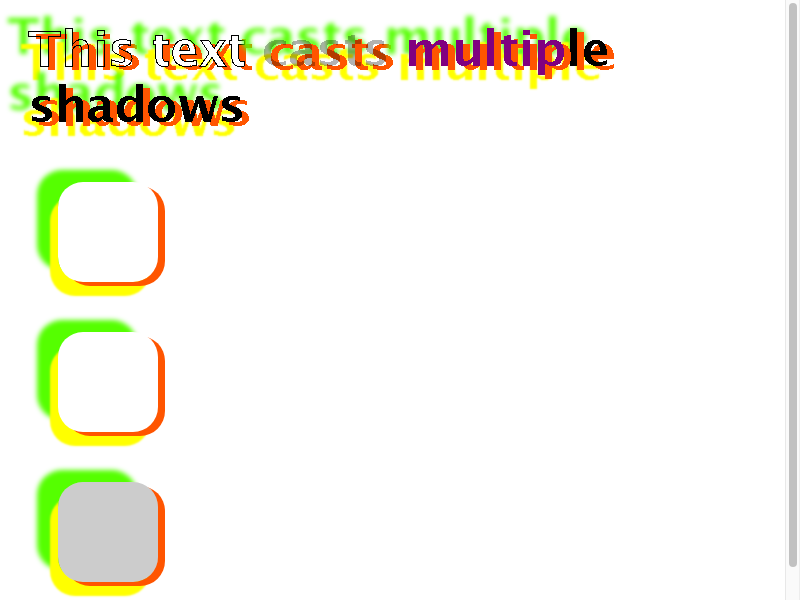
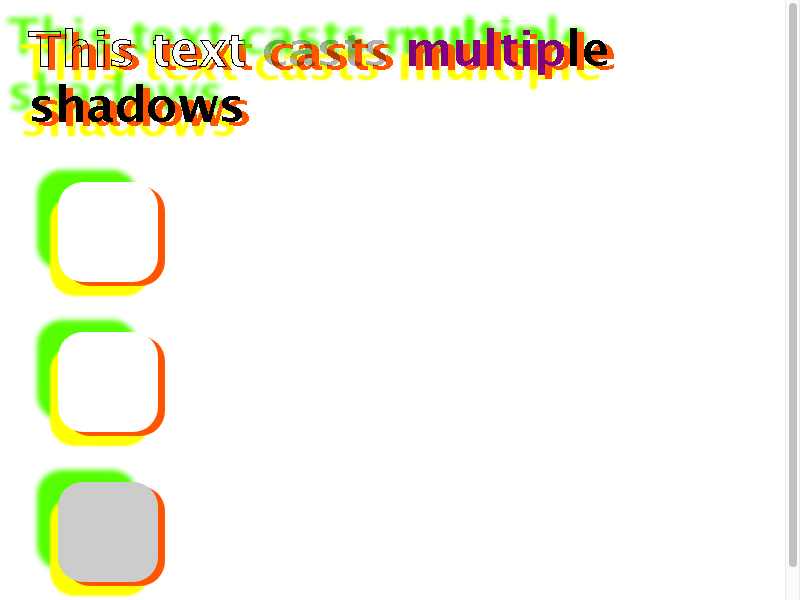
CSS highlight painting order: independent originating element shadows
This patch fixes several bugs around ::selection shadow painting.

We now paint the originating element’s shadows for selected text when
painting the same shadows for the unselected parts, suppressing only
the text proper in the selected part.

We now suppress the originating element’s shadows when painting the
ClipOut phase in NGTextPainter::PaintSelectedText, because this is the
wrong time (and wrong clipping rect) to paint those shadows.

The net result of these first two changes is that originating element
shadows for all text (including selected text) are now painted without
erroneous clipping, and always behind any unselected text proper.

We now clear any ShadowList pointer copied from the given style in
HPU::HighlightPaintingStyle, because the default text-shadow for each
highlight pseudo should be none, not inherited from the originating
element. Previously we would paint originating element shadows over
the ::selection background if HighlightPseudoStyle returns nullptr.

Together these changes should fix bug 474335 entirely, and go a long
way towards spec-compliant highlight painting (bug 1147859). Relevant
tests and screenshots (relative to <https://crrev.com/c/2647046>):

• https://wpt.live/css/css-pseudo/highlight-painting-order.html
• https://bucket.daz.cat/work/igalia/0/6.html?wm=vertical-rl
• https://bucket.daz.cat/8361fa79820580e0.png (right = patch)

Bug: 1147859, 474335
Commit-Queue: Delan Azabani <dazabani@igalia.com>
[…]

Changed region(s): [[0.5, 0.03, 0.6875, 0.12]]

diff --git a/blink/renderer/core/paint/text_painter_base.cc b/blink/renderer/core/paint/text_painter_base.cc
@@ -78,7 +78,8 @@ void TextPainterBase::UpdateGraphicsContext(
     GraphicsContext& context,
     const TextPaintStyle& text_style,
     bool horizontal,
-    GraphicsContextStateSaver& state_saver) {
+    GraphicsContextStateSaver& state_saver,
+    ShadowMode shadow_mode) {
   TextDrawingModeFlags mode = context.TextDrawingMode();
   if (text_style.stroke_width > 0) {
     TextDrawingModeFlags new_mode = mode | kTextModeStroke;
@@ -99,12 +100,49 @@ void TextPainterBase::UpdateGraphicsContext(
       context.SetStrokeThickness(text_style.stroke_width);
   }
 
-  if (text_style.shadow) {
-    state_saver.SaveIfNeeded();
-    context.SetDrawLooper(text_style.shadow->CreateDrawLooper(
-        DrawLooperBuilder::kShadowIgnoresAlpha, text_style.current_color,
-        text_style.color_scheme, horizontal));
+  if (shadow_mode != kTextProperOnly) {
+    DCHECK(shadow_mode == kBothShadowsAndTextProper ||
+           shadow_mode == kShadowsOnly);
+
+    // If there are shadows, we definitely need an SkDrawLooper, but if there
+    // are no shadows (nullptr), we still need one iff we’re in kShadowsOnly
+    // mode, because we suppress text proper by omitting AddUnmodifiedContent
+    // when building a looper (cf. CRC2DState::ShadowAndForegroundDrawLooper).
+    if (text_style.shadow || shadow_mode == kShadowsOnly) {
+      state_saver.SaveIfNeeded();
+      context.SetDrawLooper(CreateDrawLooper(
+          text_style.shadow, DrawLooperBuilder::kShadowIgnoresAlpha,
+          text_style.current_color, text_style.color_scheme, horizontal,
+          shadow_mode));
+    }
   }
+}
+
+// static
+sk_sp<SkDrawLooper> TextPainterBase::CreateDrawLooper(
+    const ShadowList* shadow_list,
+    DrawLooperBuilder::ShadowAlphaMode alpha_mode,
+    const Color& current_color,
+    mojom::blink::ColorScheme color_scheme,
+    bool is_horizontal,
+    ShadowMode shadow_mode) {
+  DrawLooperBuilder draw_looper_builder;
+
+  // ShadowList nullptr means there are no shadows.
+  if (shadow_mode != kTextProperOnly && shadow_list) {
+    for (wtf_size_t i = shadow_list->Shadows().size(); i--;) {
+      const ShadowData& shadow = shadow_list->Shadows()[i];
+      float shadow_x = is_horizontal ? shadow.X() : shadow.Y();
+      float shadow_y = is_horizontal ? shadow.Y() : -shadow.X();
+      draw_looper_builder.AddShadow(
+          FloatSize(shadow_x, shadow_y), shadow.Blur(),
+          shadow.GetColor().Resolve(current_color, color_scheme),
+          DrawLooperBuilder::kShadowRespectsTransforms, alpha_mode);
+    }
+  }
+  if (shadow_mode != kShadowsOnly)
+    draw_looper_builder.AddUnmodifiedContent();
+  return draw_looper_builder.DetachDrawLooper();
 }
 
 Color TextPainterBase::TextColorForWhiteBackground(Color text_color) {

diff --git a/blink/renderer/core/paint/ng/ng_text_fragment_painter.cc b/blink/renderer/core/paint/ng/ng_text_fragment_painter.cc
@@ -359,20 +359,29 @@ class SelectionPaintState {
                                    selection_style_, *selection_rect_, node_id);
   }
 
-  // Paint the text except selected parts. Does nothing if all is selected.
-  void PaintBeforeAndAfterSelectedText(NGTextPainter& text_painter,
-                                       unsigned start_offset,
-                                       unsigned end_offset,
-                                       unsigned length,
-                                       const TextPaintStyle& text_style,
-                                       DOMNodeId node_id) {
+  // Paint the given text range in the given style, suppressing the text proper
+  // (painting shadows only) where selected.
+  void PaintSuppressingTextProperWhereSelected(NGTextPainter& text_painter,
+                                               unsigned start_offset,
+                                               unsigned end_offset,
+                                               unsigned length,
+                                               const TextPaintStyle& text_style,
+                                               DOMNodeId node_id) {
+    // First paint the shadows for the whole range.
+    if (text_style.shadow) {
+      text_painter.Paint(start_offset, end_offset, length, text_style, node_id,
+                         NGTextPainter::kShadowsOnly);
+    }
+
+    // Then paint the text proper for any unselected parts in storage order, so
+    // that they’re always on top of the shadows.
     if (start_offset < selection_status_.start) {
       text_painter.Paint(start_offset, selection_status_.start, length,
-                         text_style, node_id);
+                         text_style, node_id, NGTextPainter::kTextProperOnly);
     }
     if (selection_status_.end < end_offset) {
       text_painter.Paint(selection_status_.end, end_offset, length, text_style,
-                         node_id);
+                         node_id, NGTextPainter::kTextProperOnly);
     }
   }
 
@@ -642,7 +651,7 @@ void NGTextFragmentPainter::Paint(const PaintInfo& paint_info,
     unsigned end_offset = fragment_paint_info.to;
 
     if (UNLIKELY(selection)) {
-      selection->PaintBeforeAndAfterSelectedText(
+      selection->PaintSuppressingTextProperWhereSelected(
           text_painter, start_offset, end_offset, length, text_style, node_id);
     } else {
       text_painter.Paint(start_offset, end_offset, length, text_style, node_id);

diff --git a/blink/renderer/core/paint/text_painter_base.h b/blink/renderer/core/paint/text_painter_base.h
@@ -13,6 +13,7 @@
 #include "third_party/blink/renderer/core/style/text_decoration_thickness.h"
 #include "third_party/blink/renderer/platform/fonts/font.h"
 #include "third_party/blink/renderer/platform/graphics/color.h"
+#include "third_party/blink/renderer/platform/graphics/draw_looper_builder.h"
 #include "third_party/blink/renderer/platform/transforms/affine_transform.h"
 #include "third_party/blink/renderer/platform/wtf/allocator/allocator.h"
 #include "third_party/blink/renderer/platform/wtf/text/atomic_string.h"
@@ -48,10 +49,19 @@ class CORE_EXPORT TextPainterBase {
   void SetEmphasisMark(const AtomicString&, TextEmphasisPosition);
   void SetEllipsisOffset(int offset) { ellipsis_offset_ = offset; }
 
+  enum ShadowMode { kBothShadowsAndTextProper, kShadowsOnly, kTextProperOnly };
   static void UpdateGraphicsContext(GraphicsContext&,
                                     const TextPaintStyle&,
                                     bool horizontal,
-                                    GraphicsContextStateSaver&);
+                                    GraphicsContextStateSaver&,
+                                    ShadowMode = kBothShadowsAndTextProper);
+  static sk_sp<SkDrawLooper> CreateDrawLooper(
+      const ShadowList* shadow_list,
+      DrawLooperBuilder::ShadowAlphaMode,
+      const Color& current_color,
+      mojom::blink::ColorScheme color_scheme,
+      bool is_horizontal = true,
+      ShadowMode = kBothShadowsAndTextProper);
 
   void PaintDecorationsExceptLineThrough(const TextDecorationOffsetBase&,
                                          TextDecorationInfo&,

diff --git a/blink/renderer/core/paint/ng/ng_text_painter.cc b/blink/renderer/core/paint/ng/ng_text_painter.cc
@@ -26,9 +26,11 @@ void NGTextPainter::Paint(unsigned start_offset,
                           unsigned end_offset,
                           unsigned length,
                           const TextPaintStyle& text_style,
-                          DOMNodeId node_id) {
+                          DOMNodeId node_id,
+                          ShadowMode shadow_mode) {
   GraphicsContextStateSaver state_saver(graphics_context_, false);
-  UpdateGraphicsContext(text_style, state_saver);
+  UpdateGraphicsContext(graphics_context_, text_style, horizontal_, state_saver,
+                        shadow_mode);
   // TODO(layout-dev): Handle combine text here or elsewhere.
   PaintInternal<kPaintText>(start_offset, end_offset, length, node_id);
 
@@ -80,7 +82,8 @@ void NGTextPainter::PaintSelectedText(unsigned start_offset,
   {
     GraphicsContextStateSaver state_saver(graphics_context_);
     graphics_context_.ClipOut(float_selection_rect);
-    Paint(start_offset, end_offset, length, text_style, node_id);
+    Paint(start_offset, end_offset, length, text_style, node_id,
+          kTextProperOnly);
   }
   // Then draw the glyphs inside the selection area, with the selection style.
   {

diff --git a/blink/renderer/core/paint/svg_inline_text_box_painter.cc b/blink/renderer/core/paint/svg_inline_text_box_painter.cc
@@ -23,6 +23,7 @@
 #include "third_party/blink/renderer/core/paint/paint_timing.h"
 #include "third_party/blink/renderer/core/paint/paint_timing_detector.h"
 #include "third_party/blink/renderer/core/paint/svg_object_painter.h"
+#include "third_party/blink/renderer/core/paint/text_painter_base.h"
 #include "third_party/blink/renderer/core/style/applied_text_decoration.h"
 #include "third_party/blink/renderer/core/style/shadow_list.h"
 #include "third_party/blink/renderer/core/svg/svg_element.h"
@@ -419,8 +420,8 @@ bool SVGInlineTextBoxPainter::SetupTextPaint(
   if (style.TextShadow() &&
       // Text shadows are disabled when printing. http://crbug.com/258321
       !InlineLayoutObject().GetDocument().Printing()) {
-    flags.setLooper(style.TextShadow()->CreateDrawLooper(
-        DrawLooperBuilder::kShadowRespectsAlpha,
+    flags.setLooper(TextPainterBase::CreateDrawLooper(
+        style.TextShadow(), DrawLooperBuilder::kShadowRespectsAlpha,
         style.VisitedDependentColor(GetCSSPropertyColor()),
         style.UsedColorScheme()));
   }

diff --git a/blink/renderer/core/style/shadow_list.cc b/blink/renderer/core/style/shadow_list.cc
@@ -49,23 +49,4 @@ void ShadowList::AdjustRectForShadow(FloatRect& rect) const {
   rect.Expand(RectOutsetsIncludingOriginal());
 }
 
-sk_sp<SkDrawLooper> ShadowList::CreateDrawLooper(
-    DrawLooperBuilder::ShadowAlphaMode alpha_mode,
-    const Color& current_color,
-    mojom::blink::ColorScheme color_scheme,
-    bool is_horizontal) const {
-  DrawLooperBuilder draw_looper_builder;
-  for (wtf_size_t i = Shadows().size(); i--;) {
-    const ShadowData& shadow = Shadows()[i];
-    float shadow_x = is_horizontal ? shadow.X() : shadow.Y();
-    float shadow_y = is_horizontal ? shadow.Y() : -shadow.X();
-    draw_looper_builder.AddShadow(
-        FloatSize(shadow_x, shadow_y), shadow.Blur(),
-        shadow.GetColor().Resolve(current_color, color_scheme),
-        DrawLooperBuilder::kShadowRespectsTransforms, alpha_mode);
-  }
-  draw_looper_builder.AddUnmodifiedContent();
-  return draw_looper_builder.DetachDrawLooper();
-}
-
 }  // namespace blink

diff --git a/blink/renderer/core/paint/highlight_painting_utils.cc b/blink/renderer/core/paint/highlight_painting_utils.cc
@@ -288,6 +288,10 @@ TextPaintStyle HighlightPaintingUtils::HighlightPaintingStyle(
   bool uses_text_as_clip = paint_info.phase == PaintPhase::kTextClip;
   const GlobalPaintFlags global_paint_flags = paint_info.GetGlobalPaintFlags();
 
+  // Each highlight overlay’s shadows are completely independent of any shadows
+  // specified on the originating element (or the other highlight overlays).
+  highlight_style.shadow = nullptr;
+
   if (!uses_text_as_clip) {
     highlight_style.fill_color = HighlightForegroundColor(
         document, style, node, pseudo, global_paint_flags);

diff --git a/blink/renderer/core/style/shadow_list.h b/blink/renderer/core/style/shadow_list.h
@@ -65,11 +65,6 @@ class ShadowList : public RefCounted<ShadowList> {
 
   void AdjustRectForShadow(FloatRect&) const;
 
-  sk_sp<SkDrawLooper> CreateDrawLooper(DrawLooperBuilder::ShadowAlphaMode,
-                                       const Color& current_color,
-                                       mojom::blink::ColorScheme color_scheme,
-                                       bool is_horizontal = true) const;
-
  private:
   ShadowList(ShadowDataVector& shadows) {
     // If we have no shadows, we use a null ShadowList

diff --git a/blink/renderer/core/paint/ng/ng_text_painter.h b/blink/renderer/core/paint/ng/ng_text_painter.h
@@ -46,7 +46,8 @@ class CORE_EXPORT NGTextPainter : public TextPainterBase {
              unsigned end_offset,
              unsigned length,
              const TextPaintStyle&,
-             DOMNodeId);
+             DOMNodeId,
+             ShadowMode = kBothShadowsAndTextProper);
 
   void PaintSelectedText(unsigned start_offset,
                          unsigned end_offset,
